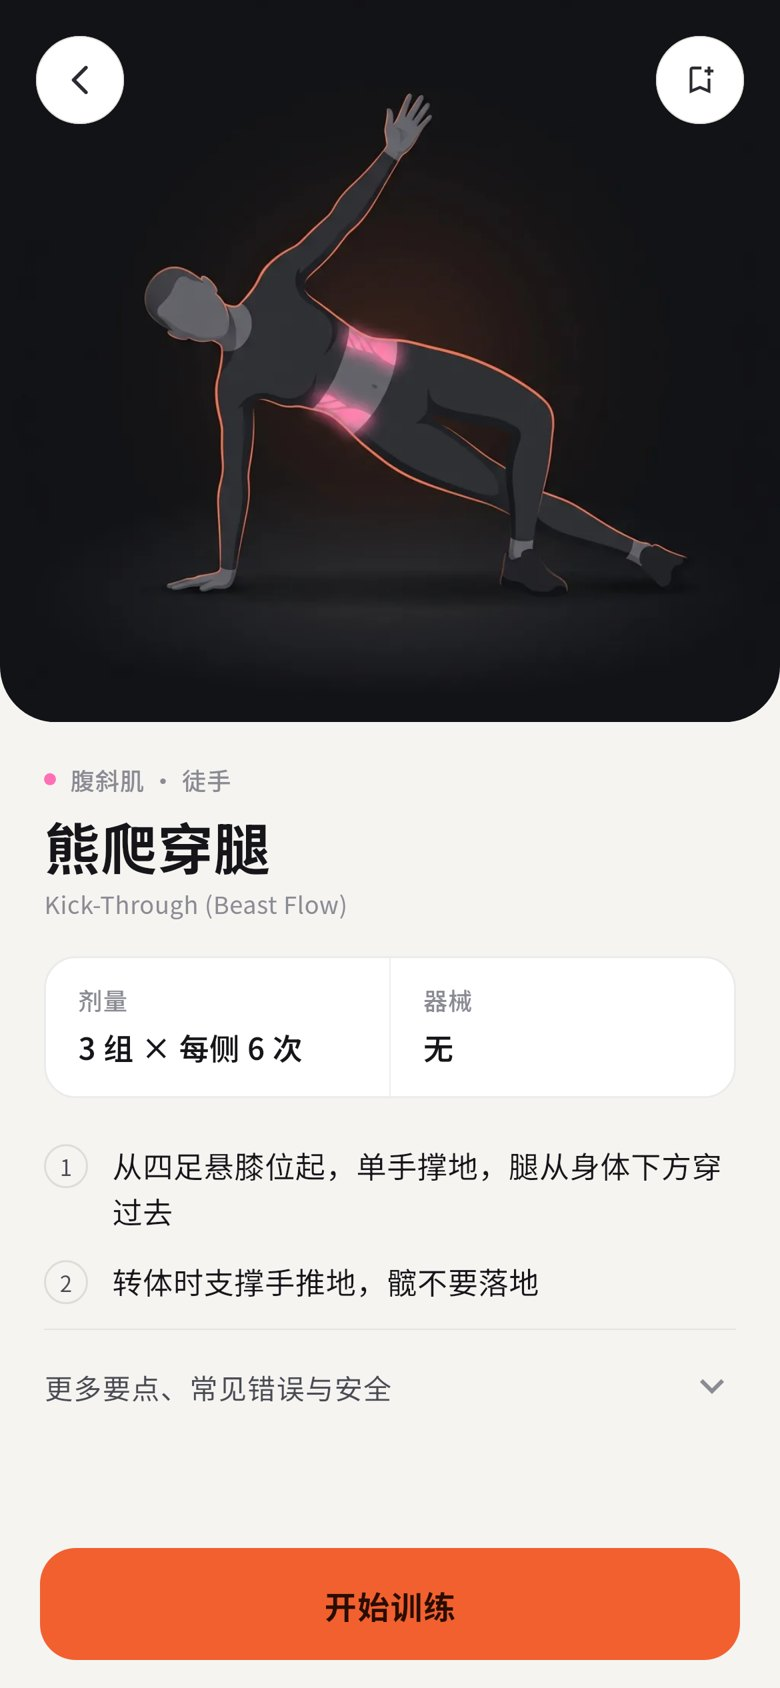
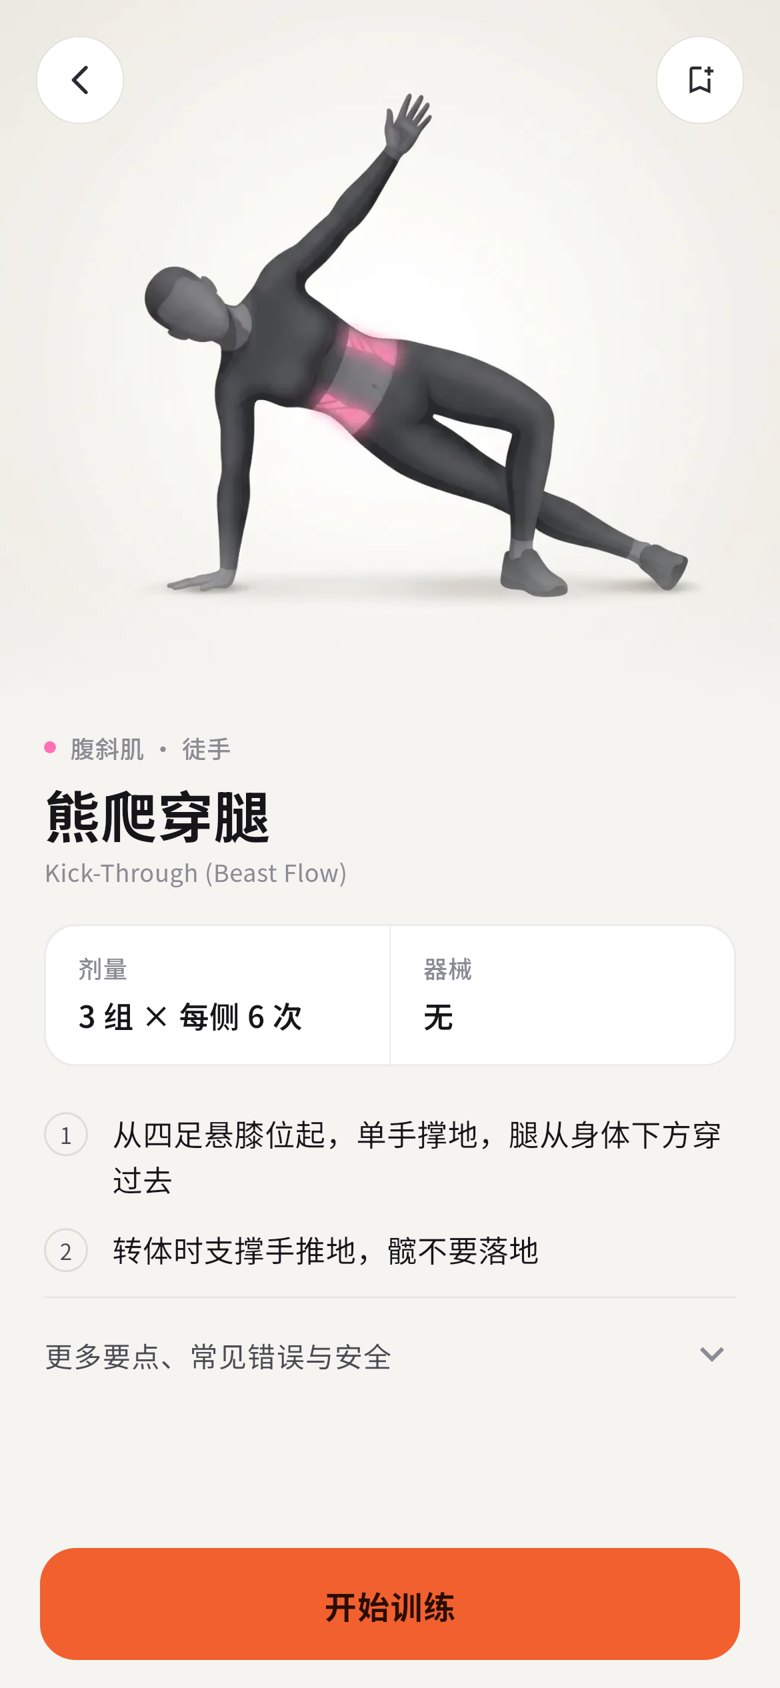
app: light-theme drill illustrations
51 light twins under assets/drills/light (same pose, framing, equipment
and highlight on a warm white sweep); drillArt() picks them in the light
theme for library, today list and drill detail. Asset test covers both sets.

diff --git a/app/lib/ui/content_pages.dart b/app/lib/ui/content_pages.dart
@@ -596,37 +596,29 @@ class DrillDetailPage extends StatelessWidget {
               children: [
                 Stack(
                   children: [
-                    // The illustrations are dark studio renders: on the dark
-                    // theme they melt into the page, on light they sit as a
-                    // rounded photo plate.
-                    ClipRRect(
-                      borderRadius: FlareColors.palette.isDark
-                          ? BorderRadius.zero
-                          : const BorderRadius.vertical(
-                              bottom: Radius.circular(28),
-                            ),
-                      child: AspectRatio(
-                        aspectRatio: 1.08,
-                        child: Image.asset(drill.imageAsset, fit: BoxFit.cover),
+                    AspectRatio(
+                      aspectRatio: 1.08,
+                      child: Image.asset(
+                        drillArt(drill.imageAsset),
+                        fit: BoxFit.cover,
                       ),
                     ),
-                    if (FlareColors.palette.isDark)
-                      Positioned.fill(
-                        child: DecoratedBox(
-                          decoration: BoxDecoration(
-                            gradient: LinearGradient(
-                              begin: Alignment.topCenter,
-                              end: Alignment.bottomCenter,
-                              colors: [
-                                FlareColors.background.withValues(alpha: 0),
-                                FlareColors.background.withValues(alpha: 0),
-                                FlareColors.background,
-                              ],
-                              stops: [0, .72, 1],
-                            ),
+                    Positioned.fill(
+                      child: DecoratedBox(
+                        decoration: BoxDecoration(
+                          gradient: LinearGradient(
+                            begin: Alignment.topCenter,
+                            end: Alignment.bottomCenter,
+                            colors: [
+                              FlareColors.background.withValues(alpha: 0),
+                              FlareColors.background.withValues(alpha: 0),
+                              FlareColors.background,
+                            ],
+                            stops: [0, .72, 1],
                           ),
                         ),
                       ),
+                    ),
                     Positioned(
                       left: 16,
                       right: 16,
@@ -652,12 +644,7 @@ class DrillDetailPage extends StatelessWidget {
                   ],
                 ),
                 Padding(
-                  padding: EdgeInsets.fromLTRB(
-                    22,
-                    FlareColors.palette.isDark ? 4 : 20,
-                    22,
-                    20,
-                  ),
+                  padding: const EdgeInsets.fromLTRB(22, 4, 22, 20),
                   child: Column(
                     crossAxisAlignment: CrossAxisAlignment.stretch,
                     children: [

diff --git a/app/lib/ui/components.dart b/app/lib/ui/components.dart
@@ -322,7 +322,7 @@ class DrillTile extends StatelessWidget {
               ClipRRect(
                 borderRadius: BorderRadius.circular(12),
                 child: Image.asset(
-                  drill.thumbnailAsset,
+                  drillArt(drill.thumbnailAsset),
                   width: 64,
                   height: 64,
                   fit: BoxFit.cover,
@@ -391,7 +391,12 @@ class DrillCard extends StatelessWidget {
       child: Column(
         crossAxisAlignment: CrossAxisAlignment.stretch,
         children: [
-          Expanded(child: Image.asset(drill.thumbnailAsset, fit: BoxFit.cover)),
+          Expanded(
+            child: Image.asset(
+              drillArt(drill.thumbnailAsset),
+              fit: BoxFit.cover,
+            ),
+          ),
           Padding(
             padding: const EdgeInsets.fromLTRB(12, 10, 12, 12),
             child: Column(
@@ -451,3 +456,9 @@ class BodyText extends StatelessWidget {
     ),
   );
 }
+
+/// Training illustrations come as a dark studio set and a matching light set
+/// (same pose, framing and highlight) under `assets/drills/light/`.
+String drillArt(String asset) => FlareColors.palette.isDark
+    ? asset
+    : asset.replaceFirst('assets/drills/', 'assets/drills/light/');

diff --git a/app/test/domain/catalog_dose_test.dart b/app/test/domain/catalog_dose_test.dart
@@ -119,7 +119,13 @@ void main() {
       for (final drill in catalog.drills) {
         final metadata = images[drill.id] as Map;
         expect(metadata['sourceSha256'], matches(RegExp(r'^[0-9a-f]{64}$')));
-        for (final path in [drill.imageAsset, drill.thumbnailAsset]) {
+        for (final path in [
+          drill.imageAsset,
+          drill.thumbnailAsset,
+          // Light theme twin: same pose and highlight on a warm white sweep.
+          drill.imageAsset.replaceFirst('drills/', 'drills/light/'),
+          drill.thumbnailAsset.replaceFirst('drills/', 'drills/light/'),
+        ]) {
           final header = File(path).readAsBytesSync().sublist(0, 12);
           expect(String.fromCharCodes(header.sublist(0, 4)), 'RIFF');
           expect(String.fromCharCodes(header.sublist(8, 12)), 'WEBP');

diff --git a/app/docs/verification.md b/app/docs/verification.md
@@ -13,6 +13,7 @@
 - 3D 场景收到 `{type: theme}` 命令，只换页面外壳（加载层、小卡底色、阶段小人体卡、热点描边）；托马斯、灯光与材质两套主题完全一致。
 - 验证：`flutter analyze` 无问题；`flutter test --no-pub` 43/43 通过（新增主题切换持久化+场景命令、旧设置兼容两项）；`flutter build web` 成功；场景 `npm run build`、`npm run verify` 通过。
 - 截图：`screenshots/2026-10-09/light/`（18 张浅色），深色在同目录上一级。
+- 浅色训练图：`assets/drills/light/` 51 张配套图，浅色主题下训练库、今日训练、训练详情都换用；`catalog_dose_test` 会断言每张都存在且是 WebP。
 
 ---
 
